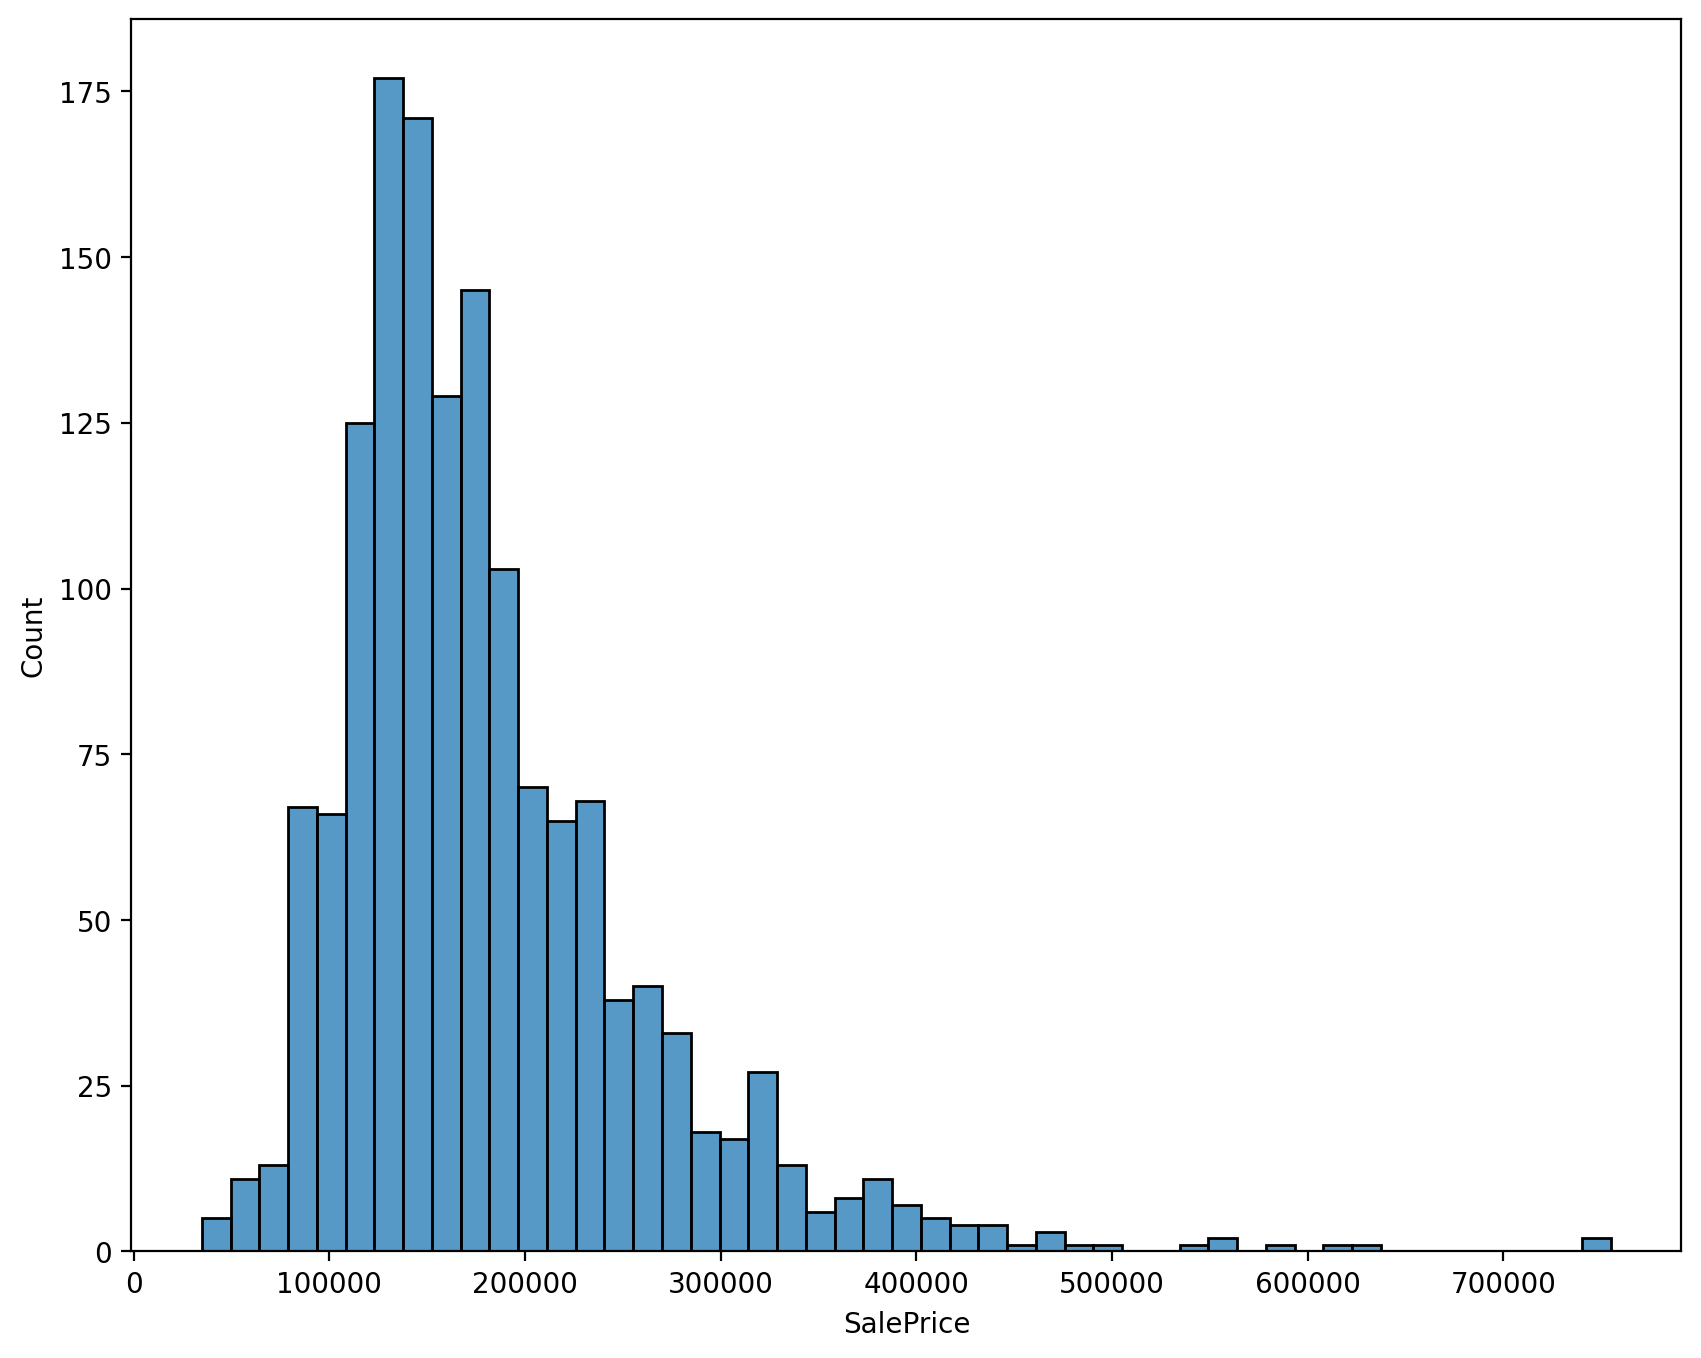
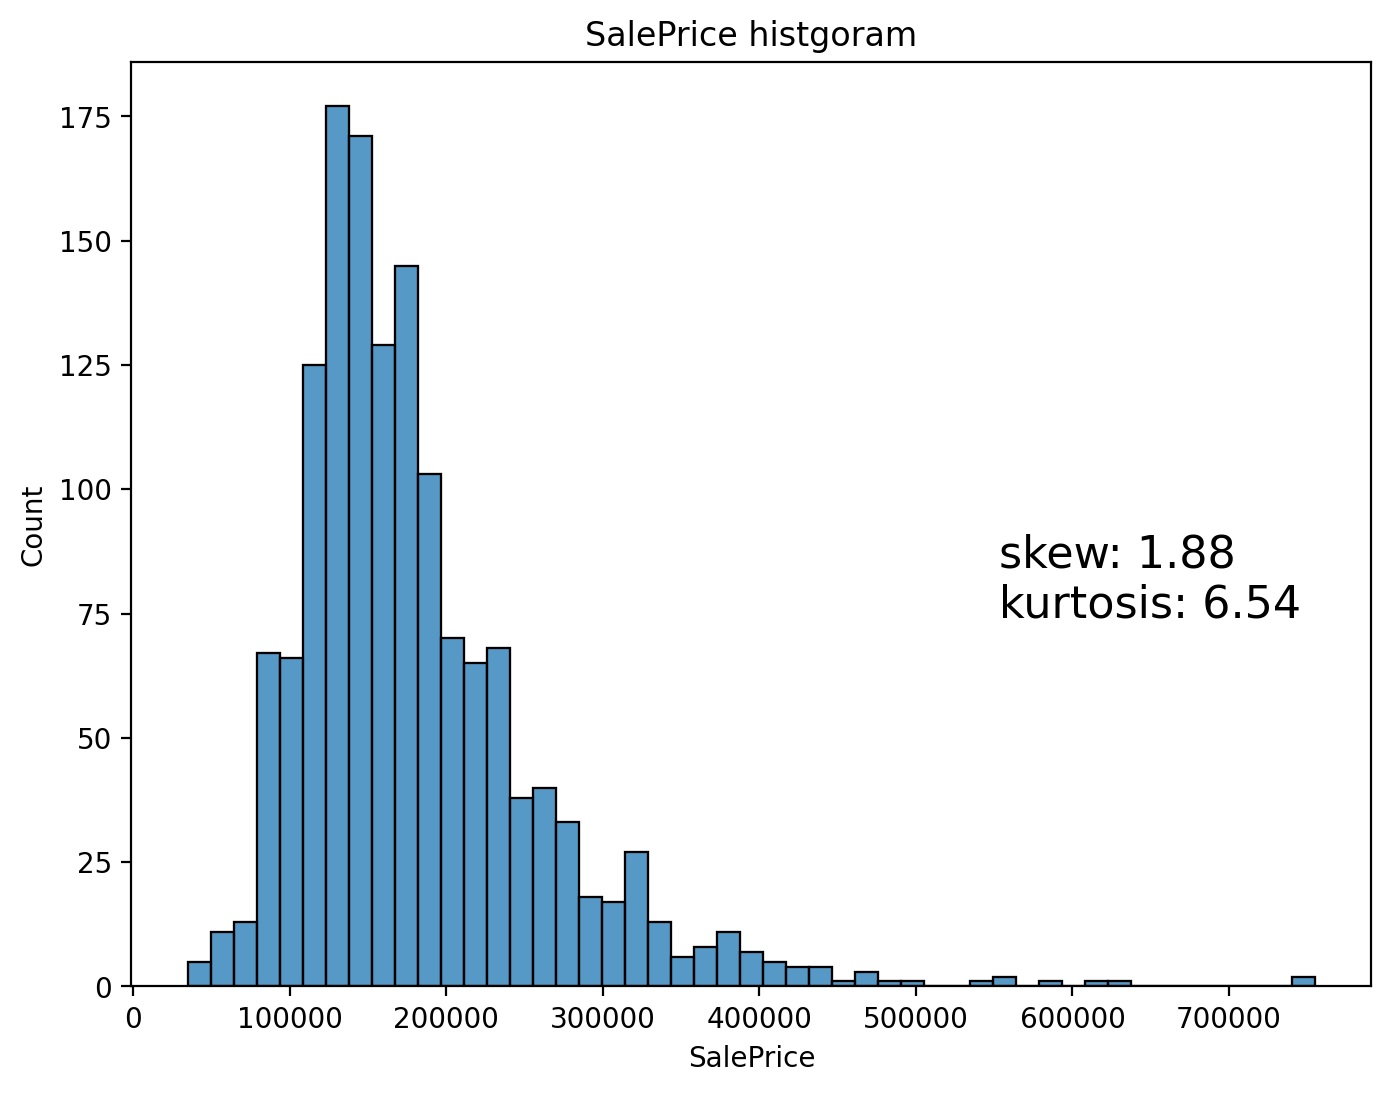
Finish week2 assignment

diff --git a/week2_datasci/main.py b/week2_datasci/main.py
@@ -2,6 +2,10 @@ import pandas as pd
 import sqlite3
 import matplotlib.pyplot as plt
 import seaborn as sns
+import numpy as np
+from sklearn.ensemble import RandomForestRegressor
+from sklearn.metrics import mean_squared_error
+from sklearn.decomposition import PCA
 
 # sqlite3 practice
 def create_database():
@@ -96,29 +100,170 @@ def basic_statistics_sqlite():
 def anal_using_pandas():
     df = pd.read_csv('1st_train_mdf.csv')
     # histogram of price
-    plt.figure(figsize=(10, 8))
+    plt.figure(figsize=(8, 6))
     sns.histplot(df['SalePrice'])
+    skew = df['SalePrice'].skew()
+    kur = df['SalePrice'].kurtosis()
+    plt.text(0.7, 0.4, f"skew: {skew:.2f}\nkurtosis: {kur:.2f}", 
+             fontsize=16, 
+              transform=plt.gca().transAxes)
+    plt.title('SalePrice histgoram')
     plt.savefig('figs/pd_price.png', bbox_inches='tight', dpi=200)
     plt.clf()
     
-    # print the max, min, mean of the price
-    print("The max, min, mean of the price: " + \
-        f"max: {df['SalePrice'].max()/1000:.1f}K " + \
-        f"min: {df['SalePrice'].min()/1000:.1f}K " + \
-        f"mean: {df['SalePrice'].mean()/1000:.2f}")
+    # check categorical variables
+    categorical = []
+    for i in df.columns:
+        if df[i].dtype == 'object':
+            categorical.append(i)
+        elif len(df[i].unique()) <= 20:
+            categorical.append(i)
+    print(f"Categorical variables({len(categorical)}):")
+    for i in categorical[:5]:
+        print(f"    {i}: {len(df[i].unique())}")
+    print("  ...")
 
-    # missing values
-    print("Missing values:")
-    null_df = (df.isna().sum() /len(df))*100
-    null_df = null_df.drop(null_df[null_df == 0].index).sort_values(ascending=False)[:20]
-    print(null_df.head(20))
-    # remove top 6 columns > 17% missing
-    
+    # clustering for categorical variables
+    for i in [
+        "TotRmsAbvGrd",
+        "OverallQual",
+        "Neighborhood",
+        "KitchenQual",
+        "HouseStyle",
+        "GarageCars",
+        "Fireplaces",
+        "FullBath",
+        ]:
+        plt.figure(figsize=(10, 8))
+        plt.title(i)
+        sns.scatterplot(data=df, x='GrLivArea', y='SalePrice', hue=i)
+        plt.savefig(f'figs/pd_scatter_{i}.png', bbox_inches='tight', dpi=200)
+        plt.clf()
 
-    # correlation
+    # correlation for continue variables
+    continue_df = df.drop(columns=categorical)
+    corr = continue_df.corr()
+    corr_high = corr.index[abs(corr['SalePrice']) > 0.5]
+    plt.figure(figsize=(8, 6))
+    sns.heatmap(df[corr_high].corr(), annot=True)
+    plt.savefig('figs/pd_corr.png', bbox_inches='tight', dpi=200)
+    plt.clf()
+
+
+def anal_fig():
+    df = pd.read_csv("1st_train_mdf.csv")
+
+    # print variance of variables
+    print("Variance of variables:")
+    var_s = {}
+    for i in df.columns:
+        if df[i].dtype == 'object':
+            continue
+        var_s[i] = df[i].var()
+    var_s = pd.Series(var_s)
+    var_s = var_s.sort_values(ascending=False)
+    for i in var_s.index[:5]:
+        print(f"    {i}: {var_s[i]:.2f}")
+    print("  ...")
+    sns.scatterplot(data=df,x="GrLivArea", y="LotArea", hue="SalePrice")
+    plt.savefig('figs/anal0.png', bbox_inches='tight', dpi=200)
+
+    # saleprice by year sold
+    plt.figure(figsize=(8, 6))
+
+    ax1 = sns.histplot(data=df, x='YrSold')
+    ax1.set_xticks(np.sort(df['YrSold'].unique()))
+
+    avg_sales = []
+    for i in np.sort(df['YrSold'].unique()):
+        avg_sales.append(df[df['YrSold']==i]['SalePrice'].mean())
+    ax2 = ax1.twinx()
+    ax2.plot(np.sort(df['YrSold'].unique()), avg_sales, color='red')
+    ax2.set_ylim(150000, 200000)
+    ax2.set_ylabel('Average SalePrice')
+
+    plt.title("SalePrice by YrSold")
+    plt.savefig('figs/anal1.png', bbox_inches='tight', dpi=200)
+    plt.clf()
+
+    # scatter plot x = GrLivArea, y = SalePrice, color = OverallQual
+    plt.figure(figsize=(8, 6))
+    sns.scatterplot(data=df, x='GrLivArea', y='SalePrice', hue='OverallQual')
+    # draw fitted line
+    x = df['GrLivArea'][df['GrLivArea']<3000] # remove outliers
+    y = df['SalePrice'][df['GrLivArea']<3000]
+    fp1 = np.polyfit(x, y, 2)
+    f1 = np.poly1d(fp1)
+    x = np.sort(df['GrLivArea'])
+    plt.plot(x, f1(x), color='red')
+    plt.title("SalePrice by GrLivArea")
+    plt.savefig('figs/anal2.png', bbox_inches='tight', dpi=200)
+
+    # barplot x = sold year - built year or remodeled year, y = average price
+    df['YrSold'] = df['YrSold'].astype(int)
+    df['Age_at_sale'] = np.floor((df['YrSold'] - df[['YearBuilt','YearRemodAdd']].max(axis=1))/5)*5
+    df['Age_at_sale'][df['Age_at_sale']<0] = 0
+    plt.figure(figsize=(8, 6))
+    sns.barplot(data=df, x='Age_at_sale', y='SalePrice')
+    plt.title("SalePrice by Age at Sale")
+    plt.savefig('figs/anal3.png', bbox_inches='tight', dpi=200)
+    plt.clf()
+
+    # OverallQual per neighborhood
+    plt.figure(figsize=(8, 6))
+    sns.barplot(data=df, x='Neighborhood', y='SalePrice')
+    plt.xticks(rotation=90)
+    plt.title("SalePrice by Neighborhood")
+    plt.savefig('figs/anal4.png', bbox_inches='tight', dpi=200)
+    plt.clf()
+
+    # PCA for continue variables
+    categorical = []
+    for i in df.columns:
+        if df[i].dtype == 'object':
+            categorical.append(i)
+        elif len(df[i].unique()) <= 20:
+            categorical.append(i)
+    continue_df = df.drop(columns=categorical+['SalePrice'])
+    continue_df = continue_df[continue_df['LotArea']<100000] # remove outliers
+    continue_df = continue_df.dropna() # remove rows with nan
+    pca = PCA(n_components=2)
+    pca.fit(continue_df)
+    pca_df = pd.DataFrame(pca.transform(continue_df), columns=['PC1', 'PC2'])
+    pca_df['SalePrice'] = df['SalePrice']
+    var_ratio = pca.explained_variance_ratio_
+    plt.figure(figsize=(8, 6))
+    sns.scatterplot(data=pca_df, x='PC1', y='PC2', hue='SalePrice')
+    plt.title("PCA")
+    plt.text(0, 4000, f"Explained variance ratio: {var_ratio[0]:.2f}, {var_ratio[1]:.2f}",
+             fontsize=16)
+    plt.savefig('figs/anal5.png', bbox_inches='tight', dpi=200)
+    plt.clf()
+
+    # top 10 important features
+    # transform categorical variables to dummy variables
+    df = df.fillna('0')
+    dummy_df = pd.get_dummies(df, columns=categorical)
+    X = dummy_df.drop(columns=['SalePrice'])
+    y = df['SalePrice']
+    model = RandomForestRegressor()
+    model.fit(X, y)
+    importances = model.feature_importances_
+    indices = np.argsort(importances)[::-1]
+    indices = indices[:10]
+    mse = mean_squared_error(y, model.predict(X))
+    plt.figure(figsize=(8, 6))
+    plt.title("Feature importances")
+    plt.bar(range(10), importances[indices], align="center")
+    plt.xticks(range(10), X.columns[indices], rotation=90)
+    plt.xlim([-1, 10])
+    plt.text(2, 0.25, f"MSE: {mse:.2f}", fontsize=16)
+    plt.savefig('figs/anal6.png', bbox_inches='tight', dpi=200)
+    plt.clf()
 
 
 if __name__ == "__main__":
     # create_database()
     # basic_statistics_sqlite()
-    anal_using_pandas()
+    # anal_using_pandas()
+    anal_fig()
